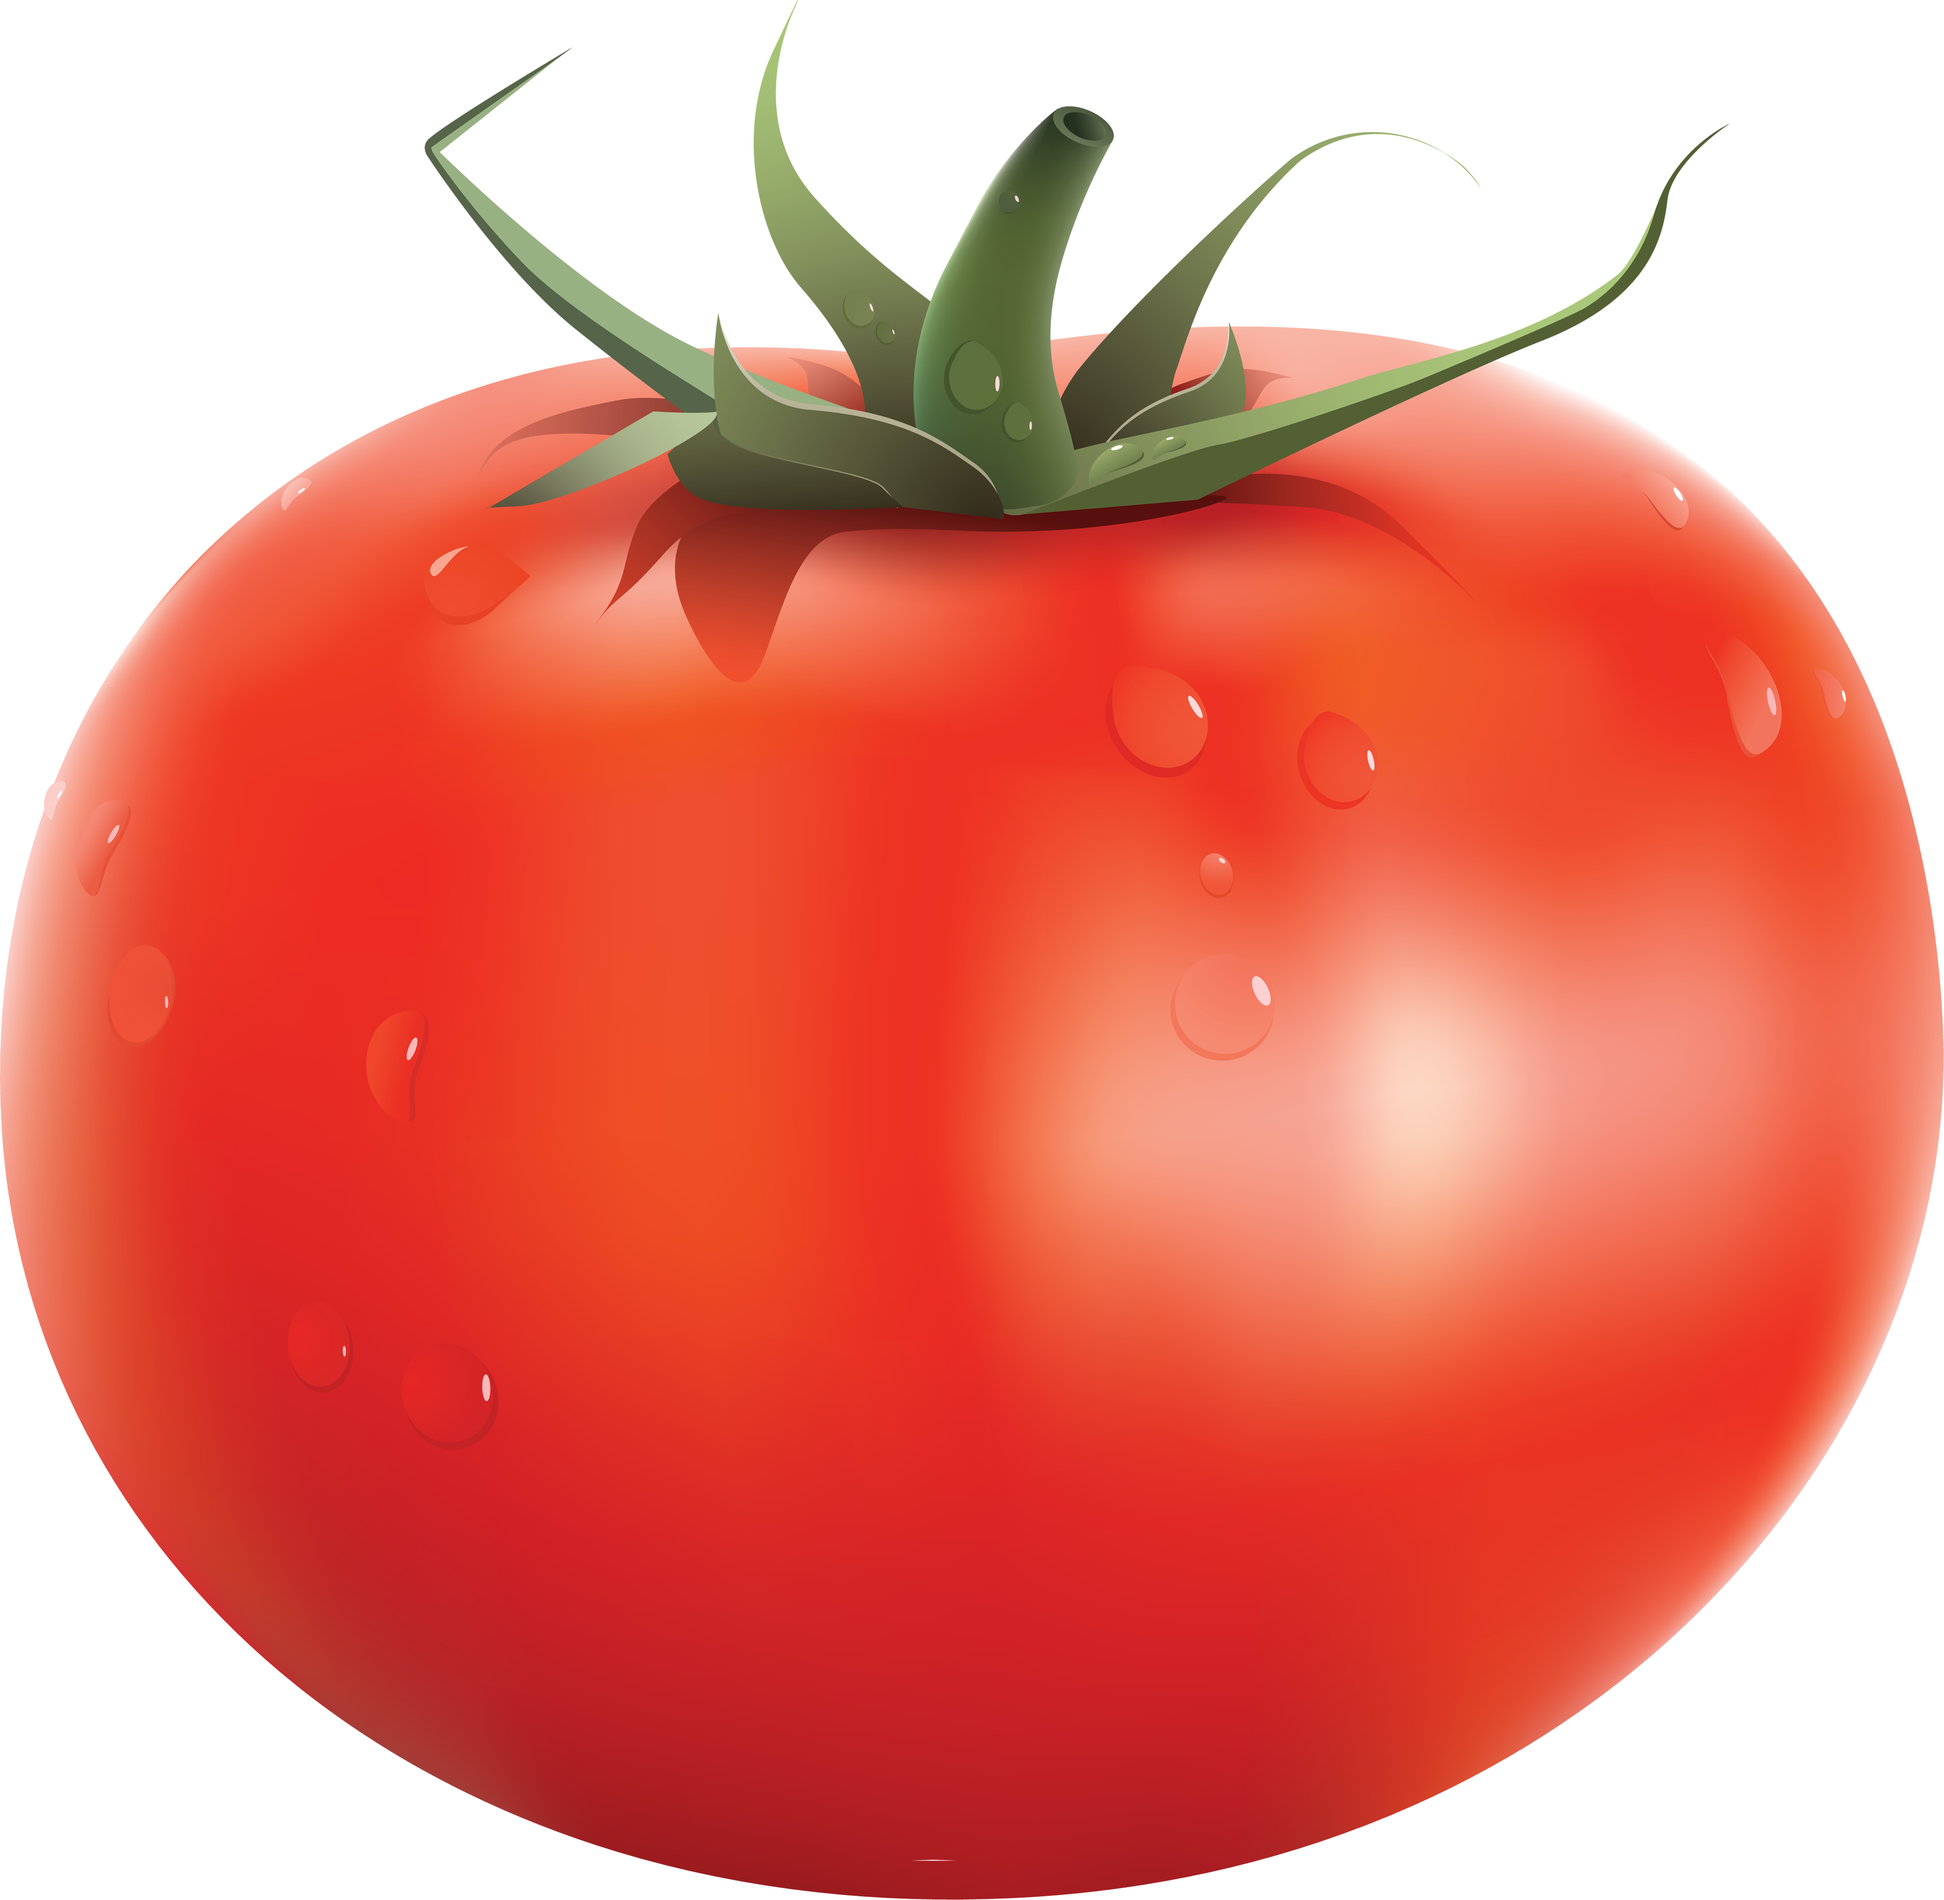
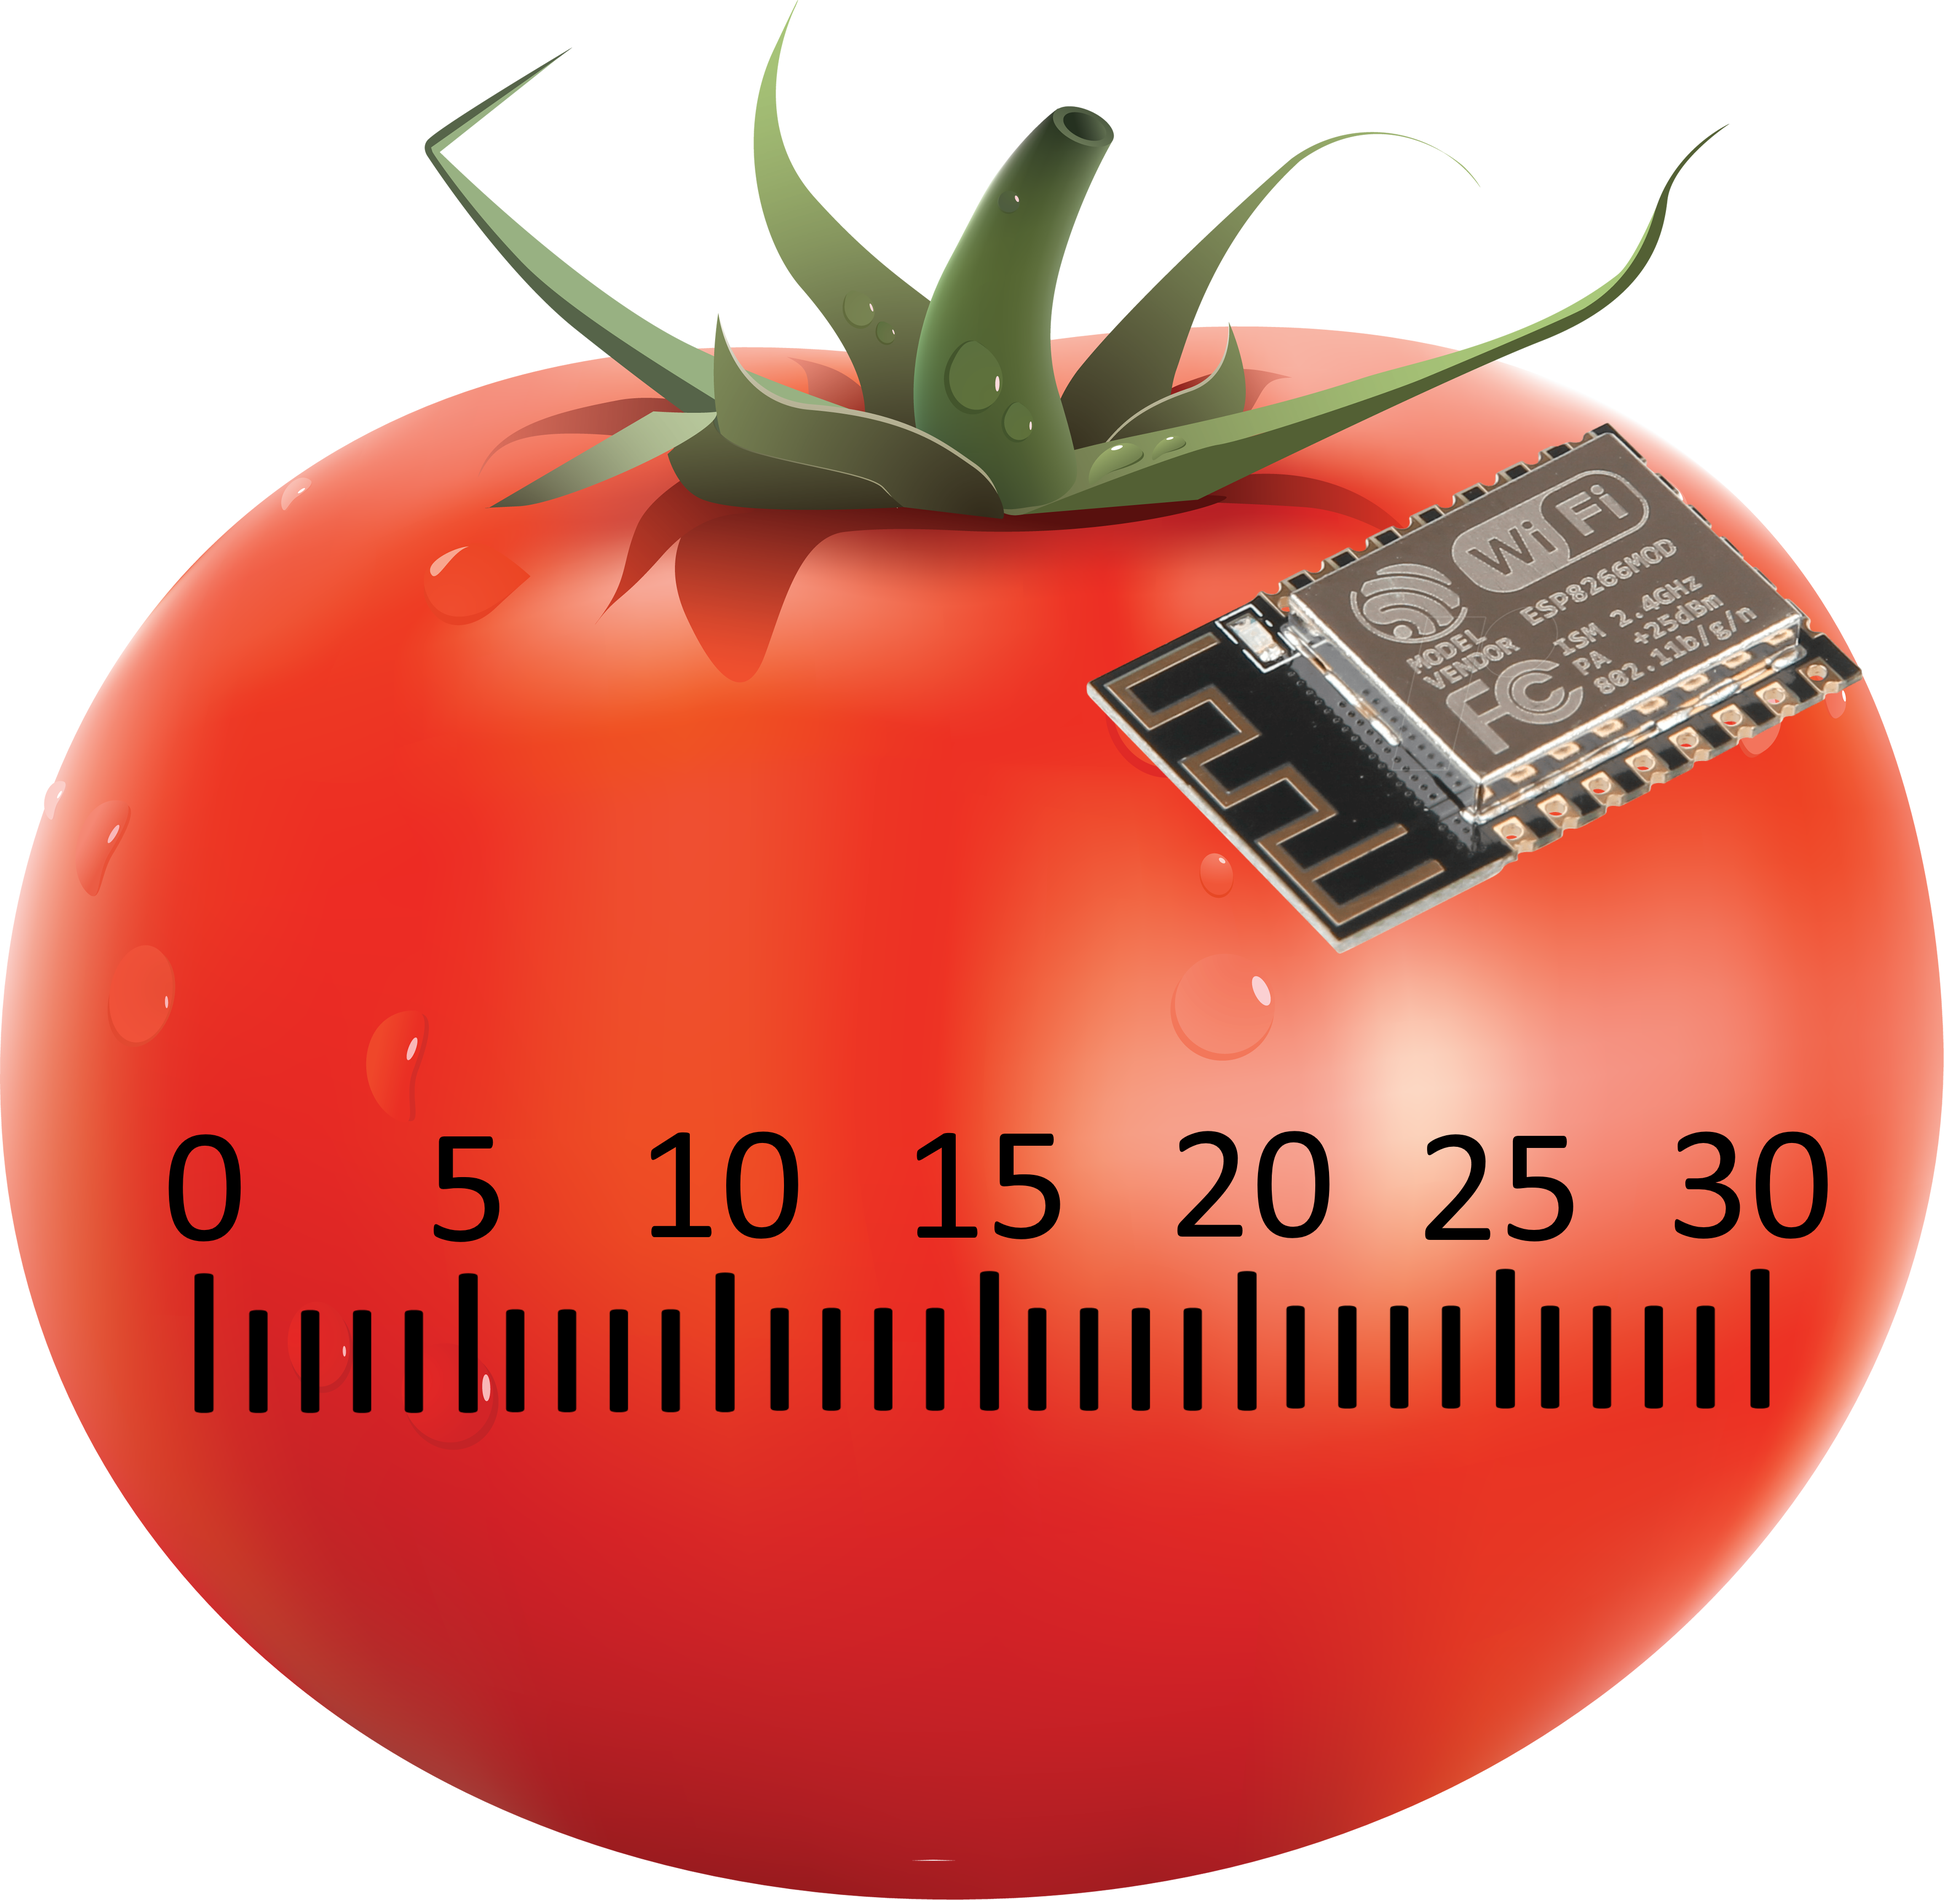
Update PomBox project

Changed region(s): [[0.0623, 0.5891, 0.9657, 0.7441], [0.5607, 0.217, 0.9657, 0.4961], [0.3427, 0.5891, 0.4361, 0.6511]]

diff --git a/_layouts/project.html b/_layouts/project.html
@@ -7,11 +7,11 @@ layout: default
   <img src= "{{page.featured_image}}" width="200" height= "200">
 
   {% if page.additional_link %}
-  <a href={{page.additional_link}}>View Project</a>
+  <p><a href={{page.additional_link}}>View Project</a></p>
   {% endif %}
   
   {% if page.source_code %}
-  <a href={{page.source_code}}>View Source Code</a>
+  <p><a href={{page.source_code}}>View Source Code</a></p>
   {% endif %}
   
   {{ content }}

diff --git a/_projects/Pomodoro-Timer.md b/_projects/Pomodoro-Timer.md
@@ -4,9 +4,11 @@ title: Arduino Pomodoro Timer
 featured_image: "/photos/Tomato.png"
 source_code: "https://github.com/CameronTrumpy/PomBox"
 ---
-The *pomodoro technique*, is a well-researched productivity method, where one hyper-focuses on their assignment/work for 25 minutes, and then takes a five minute break. After 4 pomodoros, a 15-30 minute break is taken.
+Let's face it. Between social media, games, videos, news, etc... our phones are a huge barricade in the way of us focusing on getting work done. This is something I struggled with, and I attempted mulitple approaches to curbing my phone use while studying. In the end, I decided I needed a physical aid that would hold me in check and help me study.
 
-I designed a physical pomodoro timer, which also monitors if you are distracted by your phone. This results in easier application of this technique, with a layer of responsibility taken off of the user.
+To do this, I designed a physical pomodoro timer, which also monitors if you are distracted by your phone.
+
+The *pomodoro technique*, is a well-researched productivity method, where one hyper-focuses on their assignment/work for 25 minutes, and then takes a five minute break. After 4 pomodoros, a 15-30 minute break is taken. The end result of this method applied with the timer is easier application of this technique, with a layer of responsibility taken off of the user.
 
 The timer features ESP-8266 arduino microcontroller along with a 16x2 character LCD display and a few buttons for user interaction. The timer displays your work and break time for you, and beeps to notify completion of a pomodoro cycle. It also monitors if you have picked up your phone during work time, and beeps to notify the user that they are distracted.
 
